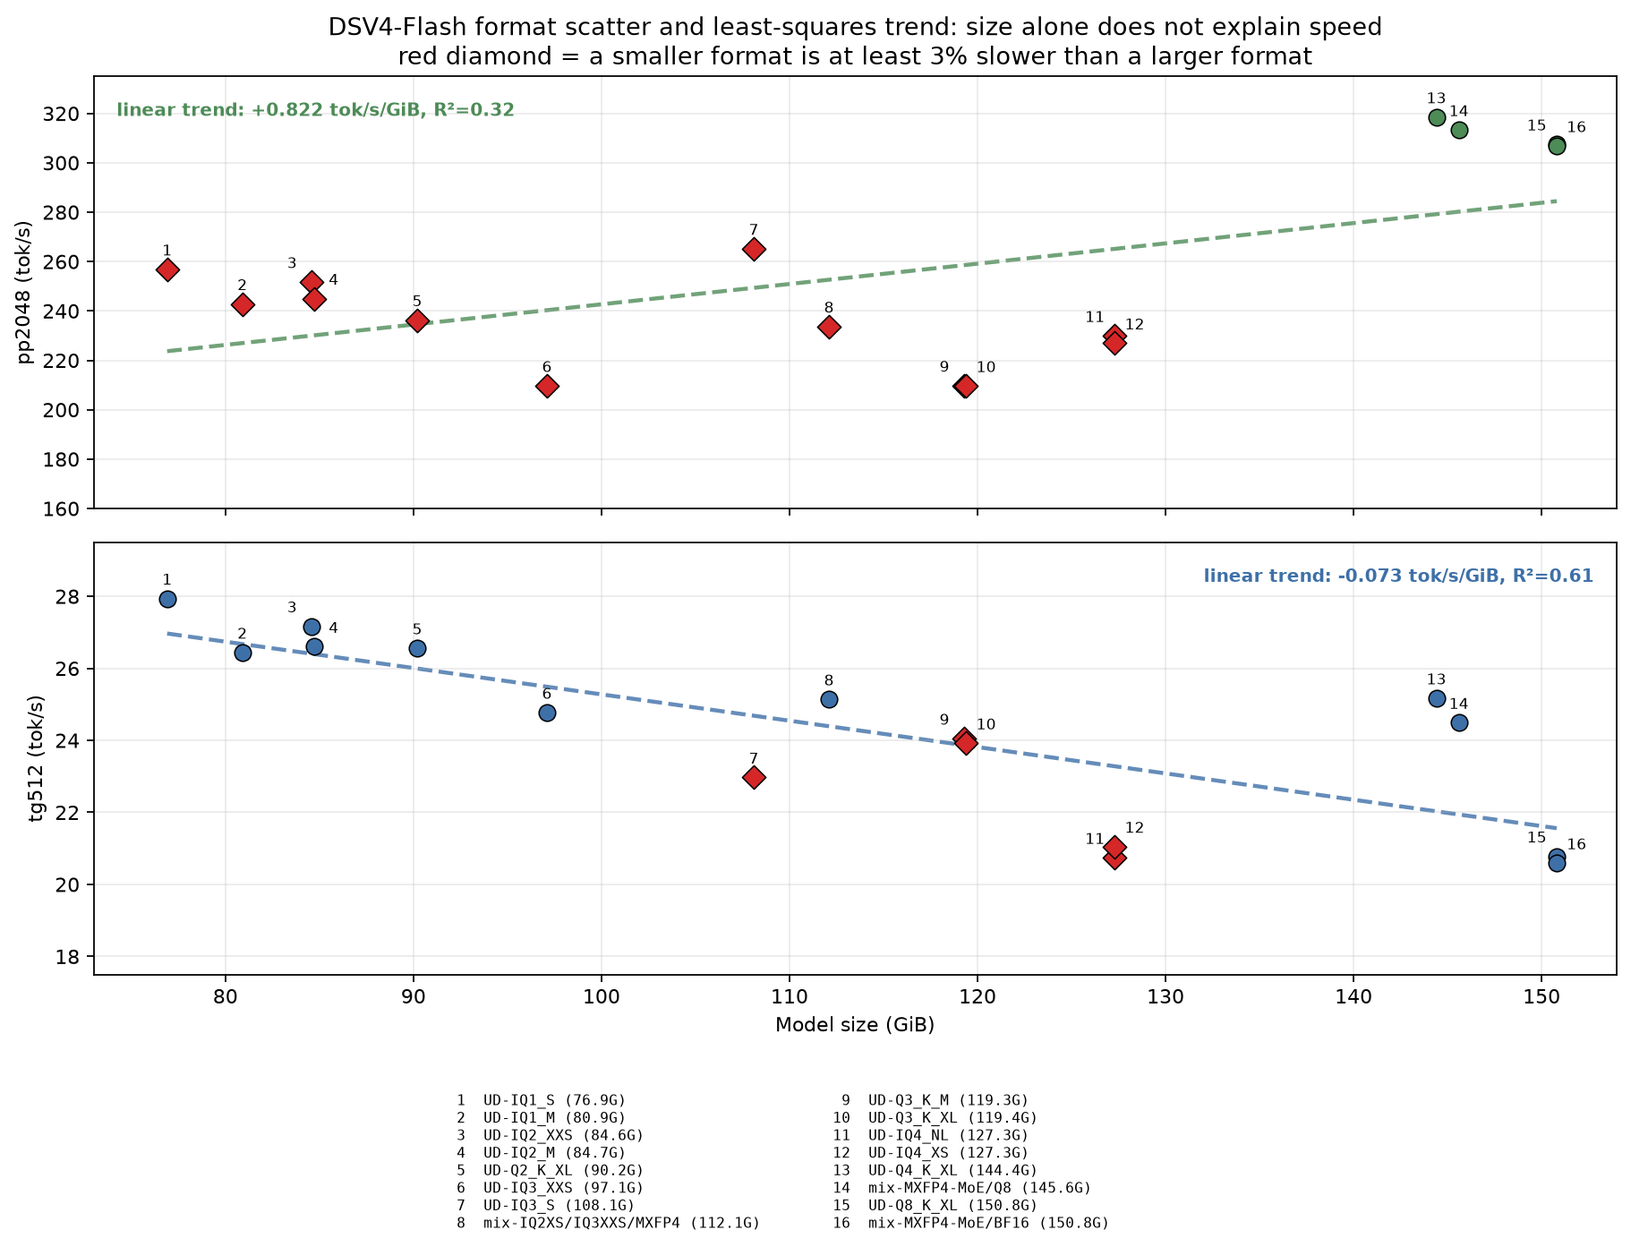
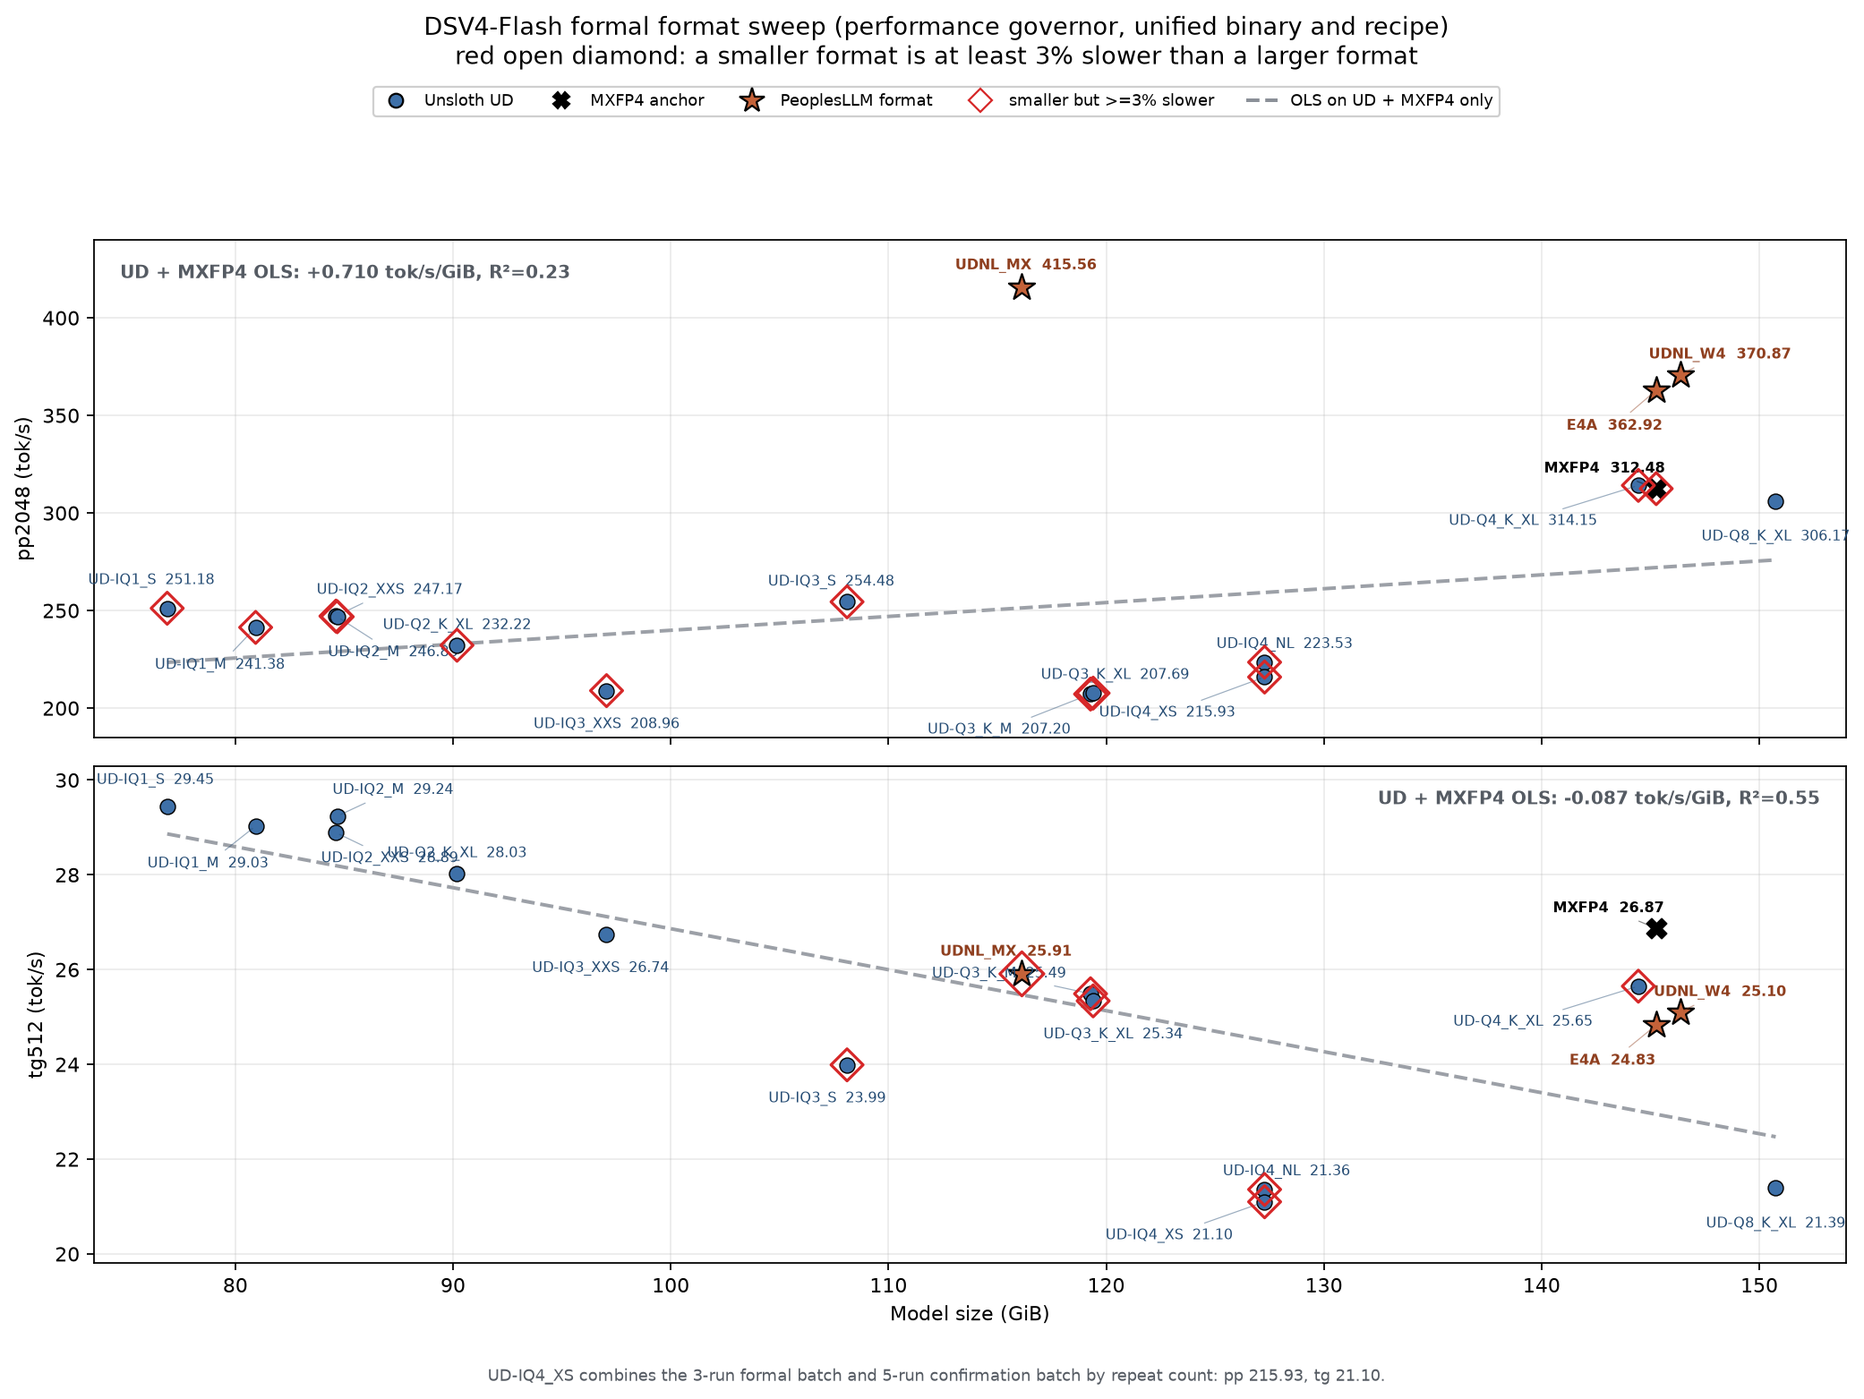
docs: publish unified performance format matrix
Assisted-by: Codex

diff --git a/docs/benchmarks/plot-project-overview.py b/docs/benchmarks/plot-project-overview.py
@@ -8,6 +8,7 @@ from pathlib import Path
 
 import matplotlib.pyplot as plt
 import numpy as np
+from matplotlib.lines import Line2D
 
 
 OUT = Path(__file__).resolve().parents[1] / "img"
@@ -86,86 +87,124 @@ def numa_tp():
 
 
 def formats():
-    # Full-format matrix measured on 2026-08-21 with one hybrid setup.
+    # Formal performance sweep, 2026-08-24. Values are intentionally embedded
+    # so the public chart generator does not depend on private benchmark artifacts.
     rows = [
-        ("UD-IQ1_S",                         76.9, 256.86, 27.94),
-        ("UD-IQ1_M",                         80.9, 242.84, 26.44),
-        ("UD-IQ2_XXS",                       84.6, 251.75, 27.17),
-        ("UD-IQ2_M",                         84.7, 244.99, 26.60),
-        ("UD-Q2_K_XL",                       90.2, 236.31, 26.56),
-        ("UD-IQ3_XXS",                       97.1, 209.67, 24.77),
-        ("UD-IQ3_S",                        108.1, 265.20, 22.97),
-        ("mix-IQ2XS/IQ3XXS/MXFP4",         112.1, 233.71, 25.14),
-        ("UD-Q3_K_M",                       119.3, 209.77, 24.05),
-        ("UD-Q3_K_XL",                      119.4, 209.62, 23.92),
-        ("UD-IQ4_XS",                       127.3, 226.92, 21.05),
-        ("UD-IQ4_NL",                       127.3, 229.91, 20.74),
-        ("UD-Q4_K_XL",                      144.4, 318.49, 25.17),
-        ("mix-MXFP4-MoE/Q8",                145.6, 313.28, 24.49),
-        ("UD-Q8_K_XL",                      150.8, 307.48, 20.78),
-        ("mix-MXFP4-MoE/BF16",              150.8, 306.81, 20.59),
+        ("UD-IQ1_S",      76.87065544724464, 251.18, 29.45, "ud"),
+        ("UD-IQ1_M",      80.93315544724464, 241.38, 29.03, "ud"),
+        ("UD-IQ2_XXS",    84.62065544724464, 247.17, 28.89, "ud"),
+        ("UD-IQ2_M",      84.68230095505714, 246.83, 29.24, "ud"),
+        ("UD-Q2_K_XL",    90.18230098485947, 232.22, 28.03, "ud"),
+        ("UD-IQ3_XXS",    97.05112132430077, 208.96, 26.74, "ud"),
+        ("UD-IQ3_S",     108.09799629449844, 254.48, 23.99, "ud"),
+        ("UD-Q3_K_M",    119.28238350152970, 207.20, 25.49, "ud"),
+        ("UD-Q3_K_XL",   119.40182167291641, 207.69, 25.34, "ud"),
+        # Weighted across the 3-run formal batch and the 5-run confirmation batch.
+        ("UD-IQ4_XS",    127.27682167291641, 215.93, 21.10, "ud"),
+        ("UD-IQ4_NL",    127.27682167291641, 223.53, 21.36, "ud"),
+        ("UD-Q4_K_XL",   144.44369927048683, 314.15, 25.65, "ud"),
+        ("UD-Q8_K_XL",   150.75282707810402, 306.17, 21.39, "ud"),
+        ("MXFP4",        145.26439723372460, 312.48, 26.87, "baseline"),
+        ("UDNL_W4",      146.36274161934853, 370.87, 25.10, "xllama"),
+        ("UDNL_MX",      116.12836688756943, 415.56, 25.91, "xllama"),
+        ("E4A",          145.26439723372460, 362.92, 24.83, "xllama"),
     ]
     rows.sort(key=lambda row: (row[1], row[0]))
 
     def smaller_but_slower(metric):
         result = []
-        for index, row in enumerate(rows):
+        for row in rows:
             size = row[1]
             speed = row[metric]
-            result.append(any(other[1] > size + 0.05 and other[metric] > speed * 1.03 for other in rows[index + 1:]))
+            result.append(any(other[1] > size + 0.05 and other[metric] > speed * 1.03 for other in rows))
         return result
 
     sizes = np.array([row[1] for row in rows])
     pp = np.array([row[2] for row in rows])
     tg = np.array([row[3] for row in rows])
+    kinds = np.array([row[4] for row in rows])
     counter_pp = smaller_but_slower(2)
     counter_tg = smaller_but_slower(3)
 
-    fig, axes = plt.subplots(2, 1, figsize=(11.5, 8.7), sharex=True)
-    close_size_label_dx = {3: -10, 4: 10, 9: -10, 10: 10, 11: -10, 12: 10, 15: -10, 16: 10}
-    for ax, values, counter, color, ylabel, trend_x_pos, trend_ha in (
-        (axes[0], pp, counter_pp, GREEN, "pp2048 (tok/s)", 0.015, "left"),
-        (axes[1], tg, counter_tg, BLUE, "tg512 (tok/s)", 0.985, "right"),
+    pp_offsets = {
+        "UD-IQ1_S": (-8, 14), "UD-IQ1_M": (-18, -19),
+        "UD-IQ2_XXS": (27, 13), "UD-IQ2_M": (28, -18),
+        "UD-Q2_K_XL": (0, 10), "UD-IQ3_XXS": (0, -17),
+        "UD-IQ3_S": (-8, 10), "UDNL_MX": (2, 11),
+        "UD-Q3_K_M": (-46, -18), "UD-Q3_K_XL": (11, 9),
+        "UD-IQ4_XS": (-49, -18), "UD-IQ4_NL": (10, 9),
+        "UD-Q4_K_XL": (-58, -18), "MXFP4": (-26, 10),
+        "E4A": (-21, -18), "UDNL_W4": (20, 10), "UD-Q8_K_XL": (0, -18),
+    }
+    tg_offsets = {
+        "UD-IQ1_S": (-6, 13), "UD-IQ1_M": (-24, -19),
+        "UD-IQ2_XXS": (27, -13), "UD-IQ2_M": (28, 13),
+        "UD-Q2_K_XL": (0, 10), "UD-IQ3_XXS": (-3, -17),
+        "UD-IQ3_S": (-10, -17), "UDNL_MX": (-8, 11),
+        "UD-Q3_K_M": (-46, 10), "UD-Q3_K_XL": (10, -17),
+        "UD-IQ4_XS": (-48, -17), "UD-IQ4_NL": (11, 9),
+        "UD-Q4_K_XL": (-58, -18), "MXFP4": (-24, 10),
+        "E4A": (-22, -18), "UDNL_W4": (20, 10), "UD-Q8_K_XL": (0, -18),
+    }
+
+    fig, axes = plt.subplots(2, 1, figsize=(13.2, 9.7), sharex=True)
+    trend_mask = kinds != "xllama"
+    for ax, values, counter, ylabel, offsets, trend_label_x, trend_ha in (
+        (axes[0], pp, counter_pp, "pp2048 (tok/s)", pp_offsets, 0.015, "left"),
+        (axes[1], tg, counter_tg, "tg512 (tok/s)", tg_offsets, 0.985, "right"),
     ):
-        trend_coeff = np.polyfit(sizes, values, 1)
+        trend_sizes = sizes[trend_mask]
+        trend_values = values[trend_mask]
+        trend_coeff = np.polyfit(trend_sizes, trend_values, 1)
         trend_x = np.linspace(sizes.min(), sizes.max(), 200)
-        fitted = np.polyval(trend_coeff, sizes)
-        residual = np.sum((values - fitted) ** 2)
-        total = np.sum((values - values.mean()) ** 2)
+        fitted = np.polyval(trend_coeff, trend_sizes)
+        residual = np.sum((trend_values - fitted) ** 2)
+        total = np.sum((trend_values - trend_values.mean()) ** 2)
         r_squared = 1.0 - residual / total
-        ax.plot(trend_x, np.polyval(trend_coeff, trend_x), color=color, linewidth=2.0, linestyle="--", alpha=0.8, zorder=1)
-        for index, (size, speed, is_counterexample) in enumerate(zip(sizes, values, counter), 1):
-            point_color = "#d62728" if is_counterexample else color
-            marker = "D" if is_counterexample else "o"
-            ax.scatter(size, speed, s=70, marker=marker, color=point_color, edgecolor="black", linewidth=0.7, zorder=3)
-            label_dx = close_size_label_dx.get(index, 0)
-            ax.annotate(str(index), (size, speed), xytext=(label_dx, 7), textcoords="offset points", ha="center", fontsize=7.5)
+        ax.plot(trend_x, np.polyval(trend_coeff, trend_x), color=GRAY, linewidth=1.8, linestyle="--", alpha=0.85, zorder=1)
+        for row, size, speed, kind, is_counterexample in zip(rows, sizes, values, kinds, counter):
+            name = row[0]
+            if kind == "ud":
+                marker, face, point_size, width = "o", BLUE, 58, 0.65
+            elif kind == "baseline":
+                marker, face, point_size, width = "X", "black", 100, 0.8
+            else:
+                marker, face, point_size, width = "*", ORANGE, 190, 1.0
+            ax.scatter(size, speed, s=point_size, marker=marker, color=face, edgecolor="black", linewidth=width, zorder=3)
+            if is_counterexample:
+                ax.scatter(size, speed, s=130 if kind != "xllama" else 245, marker="D", facecolors="none",
+                           edgecolors="#d62728", linewidth=1.45, zorder=4)
+            dx, dy = offsets[name]
+            text_color = "#8f3f1f" if kind == "xllama" else ("black" if kind == "baseline" else "#244b73")
+            ax.annotate(f"{name}  {speed:.2f}", (size, speed), xytext=(dx, dy), textcoords="offset points",
+                        ha="center", va="center", fontsize=7.2, color=text_color,
+                        fontweight="bold" if kind != "ud" else "normal",
+                        arrowprops=dict(arrowstyle="-", color=text_color, alpha=0.45, linewidth=0.55) if abs(dx) > 15 else None)
         ax.set_ylabel(ylabel)
         ax.grid(alpha=0.25)
-        ax.text(trend_x_pos, 0.94, f"linear trend: {trend_coeff[0]:+.3f} tok/s/GiB, R²={r_squared:.2f}",
-                transform=ax.transAxes, ha=trend_ha, va="top", color=color, fontsize=9, fontweight="bold")
+        ax.text(trend_label_x, 0.95, f"UD + MXFP4 OLS: {trend_coeff[0]:+.3f} tok/s/GiB, R²={r_squared:.2f}",
+                transform=ax.transAxes, ha=trend_ha, va="top", color="#555b63", fontsize=8.8, fontweight="bold")
 
-    axes[0].set_ylim(160, 335)
-    axes[1].set_ylim(17.5, 29.5)
-    axes[1].set_xlim(73, 154)
+    axes[0].set_ylim(185, 440)
+    axes[1].set_ylim(19.8, 30.3)
+    axes[1].set_xlim(73.5, 154.0)
     axes[1].set_xlabel("Model size (GiB)")
-    axes[0].set_title(
-        "DSV4-Flash format scatter and least-squares trend: size alone does not explain speed\n"
-        "red diamond = a smaller format is at least 3% slower than a larger format"
+    fig.suptitle(
+        "DSV4-Flash formal format sweep (performance governor, unified binary and recipe)\n"
+        "red open diamond: a smaller format is at least 3% slower than a larger format",
+        y=0.995,
     )
-
-    entries = [f"{index:>2}  {name} ({size:.1f}G)" for index, (name, size, _, _) in enumerate(rows, 1)]
-    columns = 2
-    rows_per_column = (len(entries) + columns - 1) // columns
-    legend_lines = []
-    for row_index in range(rows_per_column):
-        cells = []
-        for column in range(columns):
-            entry_index = column * rows_per_column + row_index
-            cells.append(entries[entry_index] if entry_index < len(entries) else "")
-        legend_lines.append("    ".join(f"{cell:<39}" for cell in cells))
-    fig.text(0.5, 0.005, "\n".join(legend_lines), ha="center", va="bottom", family="monospace", fontsize=7.3)
-    fig.tight_layout(rect=(0, 0.145, 1, 1))
+    legend = [
+        Line2D([0], [0], marker="o", color="none", markerfacecolor=BLUE, markeredgecolor="black", markersize=7, label="Unsloth UD"),
+        Line2D([0], [0], marker="X", color="none", markerfacecolor="black", markeredgecolor="black", markersize=8, label="MXFP4 anchor"),
+        Line2D([0], [0], marker="*", color="none", markerfacecolor=ORANGE, markeredgecolor="black", markersize=13, label="PeoplesLLM format"),
+        Line2D([0], [0], marker="D", color="none", markerfacecolor="none", markeredgecolor="#d62728", markersize=8, label="smaller but >=3% slower"),
+        Line2D([0], [0], color=GRAY, linestyle="--", linewidth=1.8, label="OLS on UD + MXFP4 only"),
+    ]
+    fig.legend(handles=legend, ncol=5, loc="upper center", bbox_to_anchor=(0.5, 0.948), fontsize=8, framealpha=0.94)
+    fig.text(0.5, 0.008, "UD-IQ4_XS combines the 3-run formal batch and 5-run confirmation batch by repeat count: pp 215.93, tg 21.10.",
+             ha="center", va="bottom", fontsize=8, color="#555b63")
+    fig.tight_layout(rect=(0, 0.035, 1, 0.905))
     finish(fig, "quant-formats.png")
 
 

diff --git a/README.en.md b/README.en.md
@@ -20,8 +20,8 @@ Each row below is an independent benchmark scope. Percentages from different row
 
 | Track | Matched baseline | Current result | Change |
 |---|---:|---:|---:|
-| DSV4 pp2048, MXFP4 -> UDNL_MX | 307.58 tok/s | **384.87 tok/s** | **+25.1%** |
-| DSV4 pp2048, quality-equivalent MXFP4 -> E4A | 315.7 tok/s | **370.0 tok/s** | **+17.2%** |
+| DSV4 pp2048, MXFP4 -> UDNL_MX | 312.48 tok/s | **415.56 tok/s** | **+33.0%** |
+| DSV4 pp2048, quality-equivalent MXFP4 -> E4A | 312.48 tok/s | **362.92 tok/s** | **+16.1%** |
 | DSV4 DSpark decode, n2/p0 | 23.9 tok/s | **30.1 tok/s** | **+26%** |
 | DSV4 raw decode, matched hot-expert A/B | 26.0 tok/s | **28.5 tok/s** | **+9.7%** |
 | DSV4 16K GPU MoE prefill | 213 tok/s | **334.5 tok/s** | **+57%** |
@@ -128,18 +128,20 @@ The format work therefore moves from “fewest bits” to storage layouts that f
 
 ![Full MoE format matrix by model size and PP/TG speed](docs/img/quant-formats.png)
 
-The chart is a historical scatter and least-squares trend for 16 production-format points measured under `powersave` on 2026-08-21. It is retained only to show that smaller files are not necessarily faster, not as a current performance ranking. The entire matrix is being rerun with one `performance` frequency policy, binary, and parameter set; the three abandoned models whose names contain `exp` will not return. A red diamond marks a smaller format that is at least 3% slower than some larger format. The weak trend and many counterexamples show that this workload is not controlled by DRAM bytes alone: codebook expansion, scale handling, storage-to-kernel layout, and access to batch kernels also matter. The table below lists representative Pareto points after later kernel work and must not be mixed point-by-point with the earlier matrix.
+The figure and table use the unified 2026-08-24 `performance` run with 17 format points. The fixed arguments are `-ngl 99 -ncmoe 99 -fa 1 -dev CUDA0 -sm layer -t 72 --numa distribute -b 4096 -ub 1024 --load-mode none -p 2048 -n 512 -r 3`; all 152/152 CPU governors and EPP settings were `performance`, turbo was enabled, and `numa_balancing=1` was recorded. These are raw single-slot results with neither DSpark nor hot experts. Standard UD formats are ordinary circles, MXFP4 is the anchor, the in-house UDNL_W4/UDNL_MX/E4A formats are large stars, and red hollow diamonds flag points that are smaller yet at least 3% slower than a larger format. Trend lines are fitted only to standard UD points plus the MXFP4 anchor; the three in-house formats are excluded from the fit.
+
+PPL is reused from the prior quality measurement of the same weights: CPU frequency does not change PPL, so it was not recomputed in this run. The PP/TG value for `UD-IQ4_XS`, 215.93/21.10, is weighted by repeat count from the original three runs at 219.09/21.62 and five supplemental runs at 214.03/20.78. The current loader identifies the routed MoE tensors in `UD-Q4_K_XL` as MXFP4, so that row is not a pure-Q4 expert endpoint. See [BENCHMARKS](docs/BENCHMARKS.md) for all 17 points and the historical scope.
 
 | Format | Size | pp2048 | tg512 | WikiText-2 PPL | Role |
 |---|---:|---:|---:|---:|---|
-| MXFP4 | 145.3 GiB | 307.58 | 26.26 | 3.5830 | quality baseline |
-| **UDNL_W4 + arec** | 146.4 GiB | 366.58 | 24.99 | 3.7997 | fixed 4-bit compute-oriented layout |
-| **UDNL_MX + arec** | **116.1 GiB** | **384.87** | 26.38 | 4.6274 | smallest size and highest PP |
-| **E4A** | about 147.2 GiB | **370.0** | 26.37 | approximately MXFP4 | bit-exact MXFP4 values; load about 22 -> 11 s |
-| Q3_R (MoE) | 114.1 GiB | 174.60 | 25.30 | 4.7636 | small-format reference |
-| IQ2_XXS (file named Q2_K) | 90.9 GiB | 223.60 | 22.87 | 6.6338 | dequantization-cost reference |
+| MXFP4 | 145.26 GiB | 312.48 | 26.87 | 3.5830 | quality and speed anchor |
+| **UDNL_W4 + arec** | 146.36 GiB | 370.87 | 25.10 | 3.7997 | fixed 4-bit compute-oriented layout |
+| **UDNL_MX + arec** | **116.13 GiB** | **415.56** | 25.91 | 4.6274 | smallest size and highest PP |
+| **E4A** | 145.26 GiB | **362.92** | 24.83 | 3.5830 | bit-exact MXFP4 values |
+| UD-Q3_K_M | 119.28 GiB | 207.20 | 25.49 | 4.0242 | standard UD reference |
+| UD-Q3_K_XL | 119.40 GiB | 207.69 | 25.34 | 4.0189 | standard UD reference |
 
-Choose UDNL_MX when capacity and PP matter most; choose E4A when MXFP4 values and quality must be preserved. The fixed format harness covers the main rows, while E4A quality was rechecked with a five-chunk PPL run; see [BENCHMARKS](docs/BENCHMARKS.md) for the exact scopes.
+Choose UDNL_MX when capacity and PP matter most; choose E4A when MXFP4 values and quality must be preserved. Every performance row comes from the same fixed 2026-08-24 harness, while PPL is reused from the matching-weight quality measurement.
 
 ## Build and run
 

diff --git a/docs/BENCHMARKS.md b/docs/BENCHMARKS.md
@@ -2,9 +2,40 @@
 
 > 本文档收录详细 benchmark 数据与迭代进展。项目优势与特色概览见 [README.md](../README.md)；复现口径见 [CHANGES.md](CHANGES.md) 与 [benchmarks/](benchmarks/)。
 
-## DSV4-Flash 全格式历史矩阵（2026-08-21，`powersave`）
+## DSV4-Flash 全格式统一矩阵（2026-08-24，`performance`）
 
-同一单机混合配置：双 RTX 3090 执行 attention/KV，双路 Ice Lake CPU 执行全部 routed experts，`-t 72 -fa 1 -b 4096 -ub 1024 --load-mode none`，测试 `pp2048/tg512`。下列行均采集于 CPU governor 切换前；绝对值不能与后续 UDNL/E4A 内核优化结果直接混算。
+17 个格式点使用同一二进制、单机混合配置和固定命令：`-ngl 99 -ncmoe 99 -fa 1 -dev CUDA0 -sm layer -t 72 --numa distribute -b 4096 -ub 1024 --load-mode none -p 2048 -n 512 -r 3`。运行时 152/152 CPU 的 governor/EPP 均为 `performance`，turbo 开启，`numa_balancing=1` 已记录。这是单 slot raw 口径，未启用 DSpark 或热专家。
+
+| 格式 | 体积 GiB | pp2048 | tg512 | WikiText-2 PPL |
+|---|---:|---:|---:|---:|
+| UD-IQ1_S | 76.87 | 251.18 | 29.45 | 7.7533 |
+| UD-IQ1_M | 80.93 | 241.38 | 29.03 | 6.8899 |
+| UD-IQ2_XXS | 84.62 | 247.17 | 28.89 | 5.9844 |
+| UD-IQ2_M | 84.68 | 246.83 | 29.24 | 6.0004 |
+| UD-Q2_K_XL | 90.18 | 232.22 | 28.03 | 5.4675 |
+| UD-IQ3_XXS | 97.05 | 208.96 | 26.74 | 4.7101 |
+| UD-IQ3_S | 108.10 | 254.48 | 23.99 | 4.5707 |
+| **UDNL_MX** | **116.13** | **415.56** | 25.91 | 4.6274 |
+| UD-Q3_K_M | 119.28 | 207.20 | 25.49 | 4.0242 |
+| UD-Q3_K_XL | 119.40 | 207.69 | 25.34 | 4.0189 |
+| UD-IQ4_XS | 127.28 | 215.93 | 21.10 | 3.8633 |
+| UD-IQ4_NL | 127.28 | 223.53 | 21.36 | 3.8633 |
+| UD-Q4_K_XL[^q4-loader] | 144.44 | 314.15 | 25.65 | 3.4363 |
+| MXFP4 | 145.26 | 312.48 | **26.87** | 3.5830 |
+| **E4A** | 145.26 | **362.92** | 24.83 | 3.5830 |
+| **UDNL_W4** | 146.36 | **370.87** | 25.10 | 3.7997 |
+| UD-Q8_K_XL | 150.75 | 306.17 | 21.39 | 3.4440 |
+
+PPL 沿用同一权重此前的质量测量；CPU 频率不会影响 PPL，因此本轮没有重复计算。`UD-IQ4_XS` 的正式值按重复次数合并：原 3 轮为 219.09/21.62，补充 5 轮为 214.03/20.78，加权后 PP/TG 为 **215.93/21.10**。表内其余性能数字均由当次逐格式 JSON 原始记录汇总。
+
+公开图中，普通 UD 点用圆形，MXFP4 用作锚点，自研 UDNL_W4、UDNL_MX、E4A 用大星；红色空心菱形表示该格式虽然更小，却被至少一个更大格式以 3% 以上速度反超。趋势线只拟合普通 UD 点与 MXFP4 锚点，不用三种自研格式参与拟合。较低的趋势解释力和反例说明性能不只由文件体积或理论 DRAM 带宽决定，还取决于码本展开、scale 处理、磁盘/计算布局以及能否进入批量内核。
+
+[^q4-loader]: 当前 loader 实际把 `UD-Q4_K_XL` 的 routed MoE tensor 识别为 MXFP4；该点保留为实测文件结果，但不能作为纯 Q4 专家端点。
+
+<details>
+<summary>历史矩阵：2026-08-21，<code>powersave</code>（仅供追溯）</summary>
+
+同一单机混合配置：双 RTX 3090 执行 attention/KV，双路 Ice Lake CPU 执行全部 routed experts，`-t 72 -fa 1 -b 4096 -ub 1024 --load-mode none`，测试 `pp2048/tg512`。下列 16 行均采集于 CPU governor 切换前，只用于追溯格式异常，不能继续作为当前排名或 README 主图的解释口径。
 
 | 格式 | 体积 GiB | pp2048 | tg512 | PPL（20 x 512） |
 |---|---:|---:|---:|---:|
@@ -25,7 +56,7 @@
 | UD-Q8_K_XL | 150.8 | 307.48 | 20.78 | 3.4440 |
 | mix-MXFP4-MoE/BF16 | 150.8 | 306.81 | 20.59 | 3.4440 |
 
-README 的全格式图对上述 16 个正式格式绘制散点和最小二乘趋势线。这是 `powersave` 下的历史数据，只用于观察格式异常；所有正式格式正在统一 `performance` 频率、二进制和参数下重测。名称含 `exp` 的三个已放弃试验模型已移出矩阵。红色菱形定义为：该格式比某个更大的格式至少慢 3%。大量反例说明有效速度还受码本展开、scale 处理、存储到内核的布局转换以及 GEMV/GEMM dispatch 影响，不能只用模型字节数或理论 DRAM 带宽解释。
+</details>
 
 ## 最新进展（2026-08-06~13）
 
